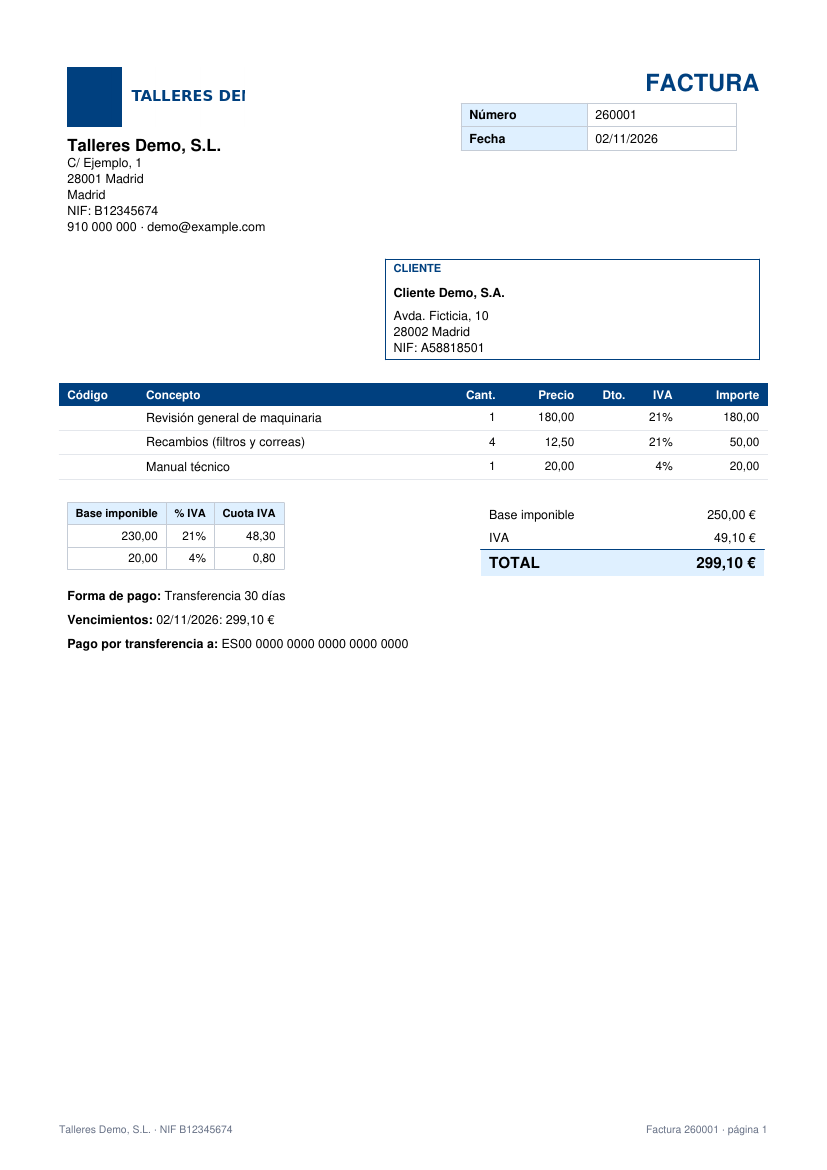
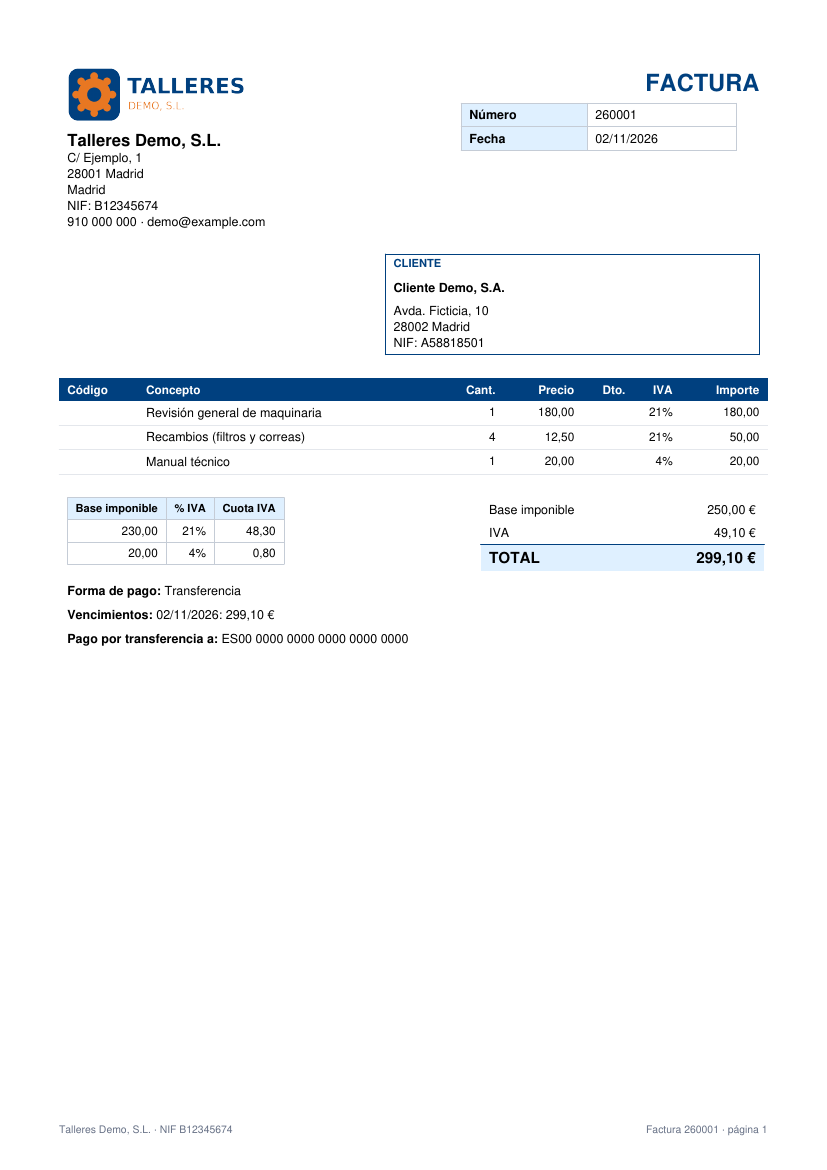
Capturas 28 y 30 renovadas (ruta típica de Windows, logotipo de demostración completo); prueba de encaje del logotipo

Changed region(s): [[0.0605, 0.2154, 0.9371, 0.5538], [0.0605, 0.0615, 0.3325, 0.2154], [0.5744, 0.4308, 0.9371, 0.4923]]

diff --git a/tests/test_funciones.py b/tests/test_funciones.py
@@ -1,6 +1,6 @@
 """Tests de las funciones de la fase 2: editar/borrar, rectificativas, cobros y recibos, pasar a factura,
 libros de IVA y empaquetado. Usan una empresa ficticia en una base temporal (sin datos reales)."""
-import io, os, csv, importlib
+import io, os, csv, importlib, shutil
 from decimal import Decimal as D
 from pathlib import Path
 import pytest
@@ -698,3 +698,22 @@ def test_datos_nunca_junto_al_programa(monkeypatch, tmp_path):
     monkeypatch.setenv("APPDATA", str(tmp_path / "Roaming"))
     assert db.data_dir() == tmp_path / "Roaming" / "ContFactu"
     assert ventana.carpeta_webview().startswith(str(tmp_path / "Roaming" / "ContFactu"))
+
+
+# ---------------------------------------------------------------- logotipo: se encaja sin recortar ni deformar
+@pytest.mark.skipif(not shutil.which("pdftoppm"), reason="sin pdftoppm (poppler)")
+@pytest.mark.parametrize("w,h", [(1200, 100), (100, 1200), (400, 400), (3000, 2000)])
+def test_logo_encaja_sin_recortar(tmp_path, w, h):
+    import io, subprocess
+    from PIL import Image, ImageChops
+    from app.fmt_pdf import render_pdf_defecto
+    b = io.BytesIO(); Image.new("RGB", (w, h), (255, 0, 0)).save(b, "PNG"); b.seek(0)
+    pdf = render_pdf_defecto({"nombre": "Demo", "nif": "B12345674"},
+                             {"tipo": "F", "numero": "260001", "fecha": "2026-11-02", "total": "0"}, [], [], logo=b)
+    (tmp_path / "a.pdf").write_bytes(pdf)
+    subprocess.run(["pdftoppm", "-r", "144", "-png", "-singlefile", str(tmp_path / "a.pdf"), str(tmp_path / "a")], check=True)
+    r, g, _ = Image.open(tmp_path / "a.png").convert("RGB").split()
+    caja = ImageChops.multiply(Image.eval(r, lambda v: 255 if v > 200 else 0), Image.eval(g, lambda v: 255 if v < 60 else 0)).getbbox()
+    ancho, alto = caja[2] - caja[0], caja[3] - caja[1]
+    assert ancho <= 45 / 25.4 * 144 + 2 and alto <= 22 / 25.4 * 144 + 2          # cabe en 45 × 22 mm
+    assert abs(ancho / alto - w / h) / (w / h) < 0.12                           # misma proporción: ni recorte ni deformación

diff --git a/CHANGELOG.md b/CHANGELOG.md
@@ -29,6 +29,7 @@ historial de git no forma parte de este repositorio.
   Una importación nunca se mezcla con una empresa creada en ContFactu que tenga el mismo código: avisa y la omite.
 
 ### Cambiado
+- Capturas de demostración renovadas, con un logotipo inventado completo y una ruta de datos típica de Windows. Nueva prueba que confirma que el logotipo se encaja en la factura sin recortarse ni deformarse.
 - La primera pantalla dice «Bienvenido a ContFactu». Los textos que se dirigen al usuario usan el masculino genérico.
 - **Código publicado como software libre** bajo la licencia GPL-3.0-or-later (archivo LICENSE; aviso en «Acerca de»).
   7-Zip ya no está en el repositorio: `construir.bat` lo descarga de 7-zip.org y comprueba su SHA-256.
